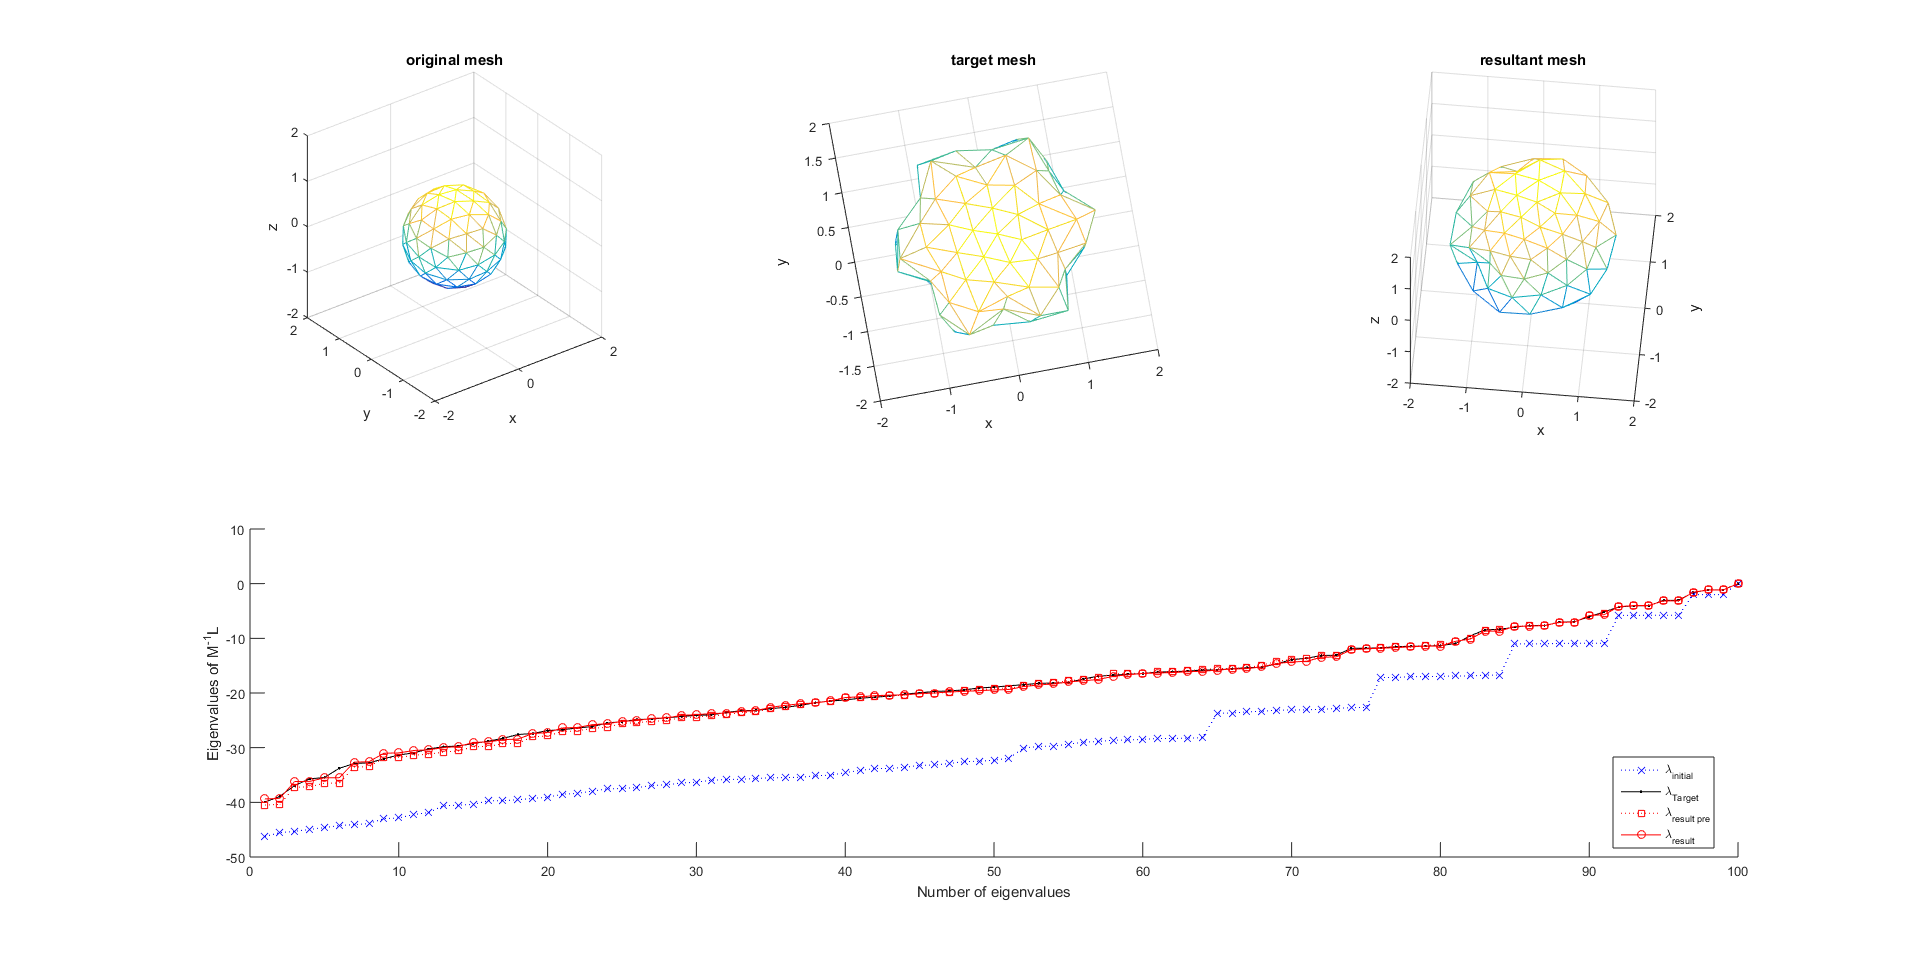
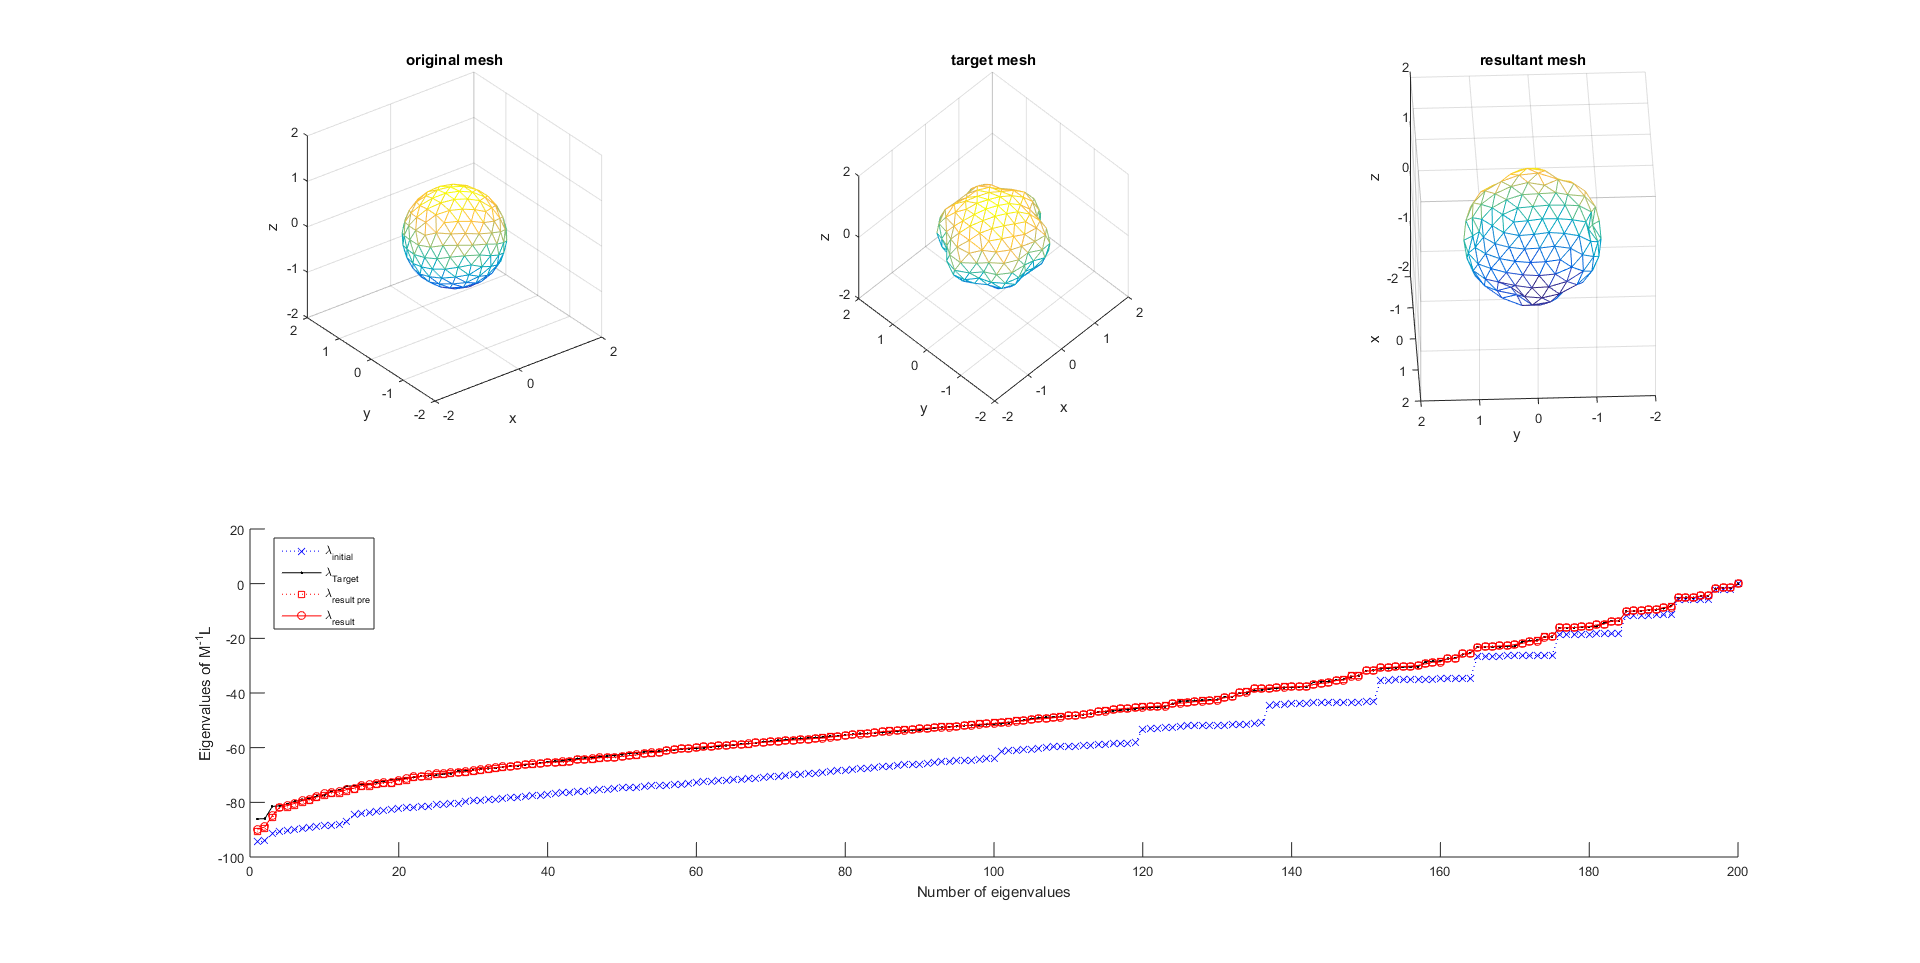
Y33 harmonics

diff --git a/main.m b/main.m
@@ -7,14 +7,14 @@ aC = .5; bC = .8; etolC = 1e-3; % Conformal gradient descent control
 aS = .5; bS = .4; etolS = 1e-3; % invSpec gradient descent control
 numeig = 0; % number of eigenvalues used, 0 means full input
 rng(1432543); % rand seed
-purt = .8; % scaling coefficient used to control target purtabation
+purt = .6; % scaling coefficient used to control target purtabation
 ssize = 200;
 %% some spherical harmonics
 vnorm = @(v) sqrt(v(:,3).^2+v(:,1).^2+v(:,2).^2);
 Y33 = @(v) ((v(:,1).^2-3*v(:,2).^2).*v(:,1))./vnorm(v);
 Y20 = @(v) (2*v(:,3).^2-v(:,1).^2-v(:,2).^2)./vnorm(v);
 Y10 = @(v) v(:,3)./vnorm(v);
-sphar = @(v) abs(Y20(v))*purt^3;
+sphar = @(v) abs(Y33(v))*purt^3;
 %% input mesh
 % regular octahedron (1)
 if input_case == 1

diff --git a/gradescent.m b/gradescent.m
@@ -30,7 +30,7 @@ for i = 1:imax
       i = i + (i < imax);
       J(i:end) = [];
       v(:,i:end) = [];
-      fprintf('Converged at iter#%d; J = %g\n\n',i,J(i));
+      fprintf('Converged at iter#%d; J = %g\n\n',i,J(end));
       break;
     end
   end
